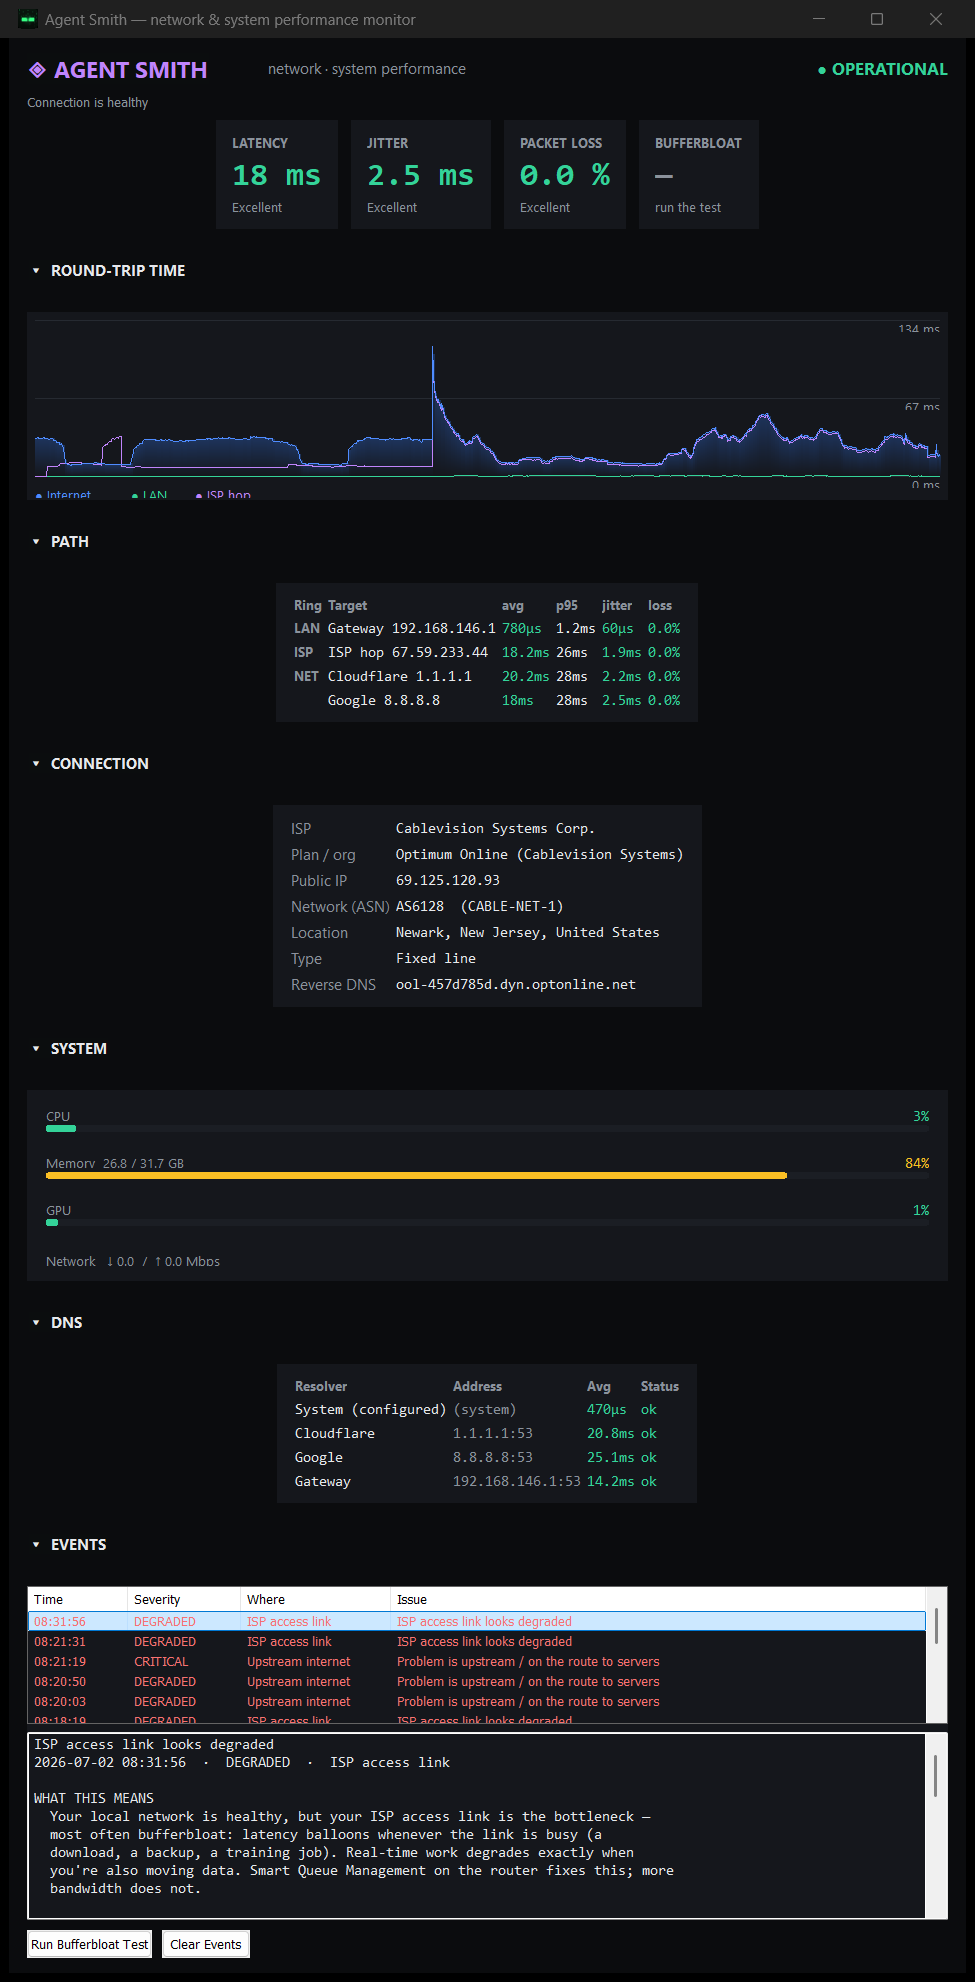
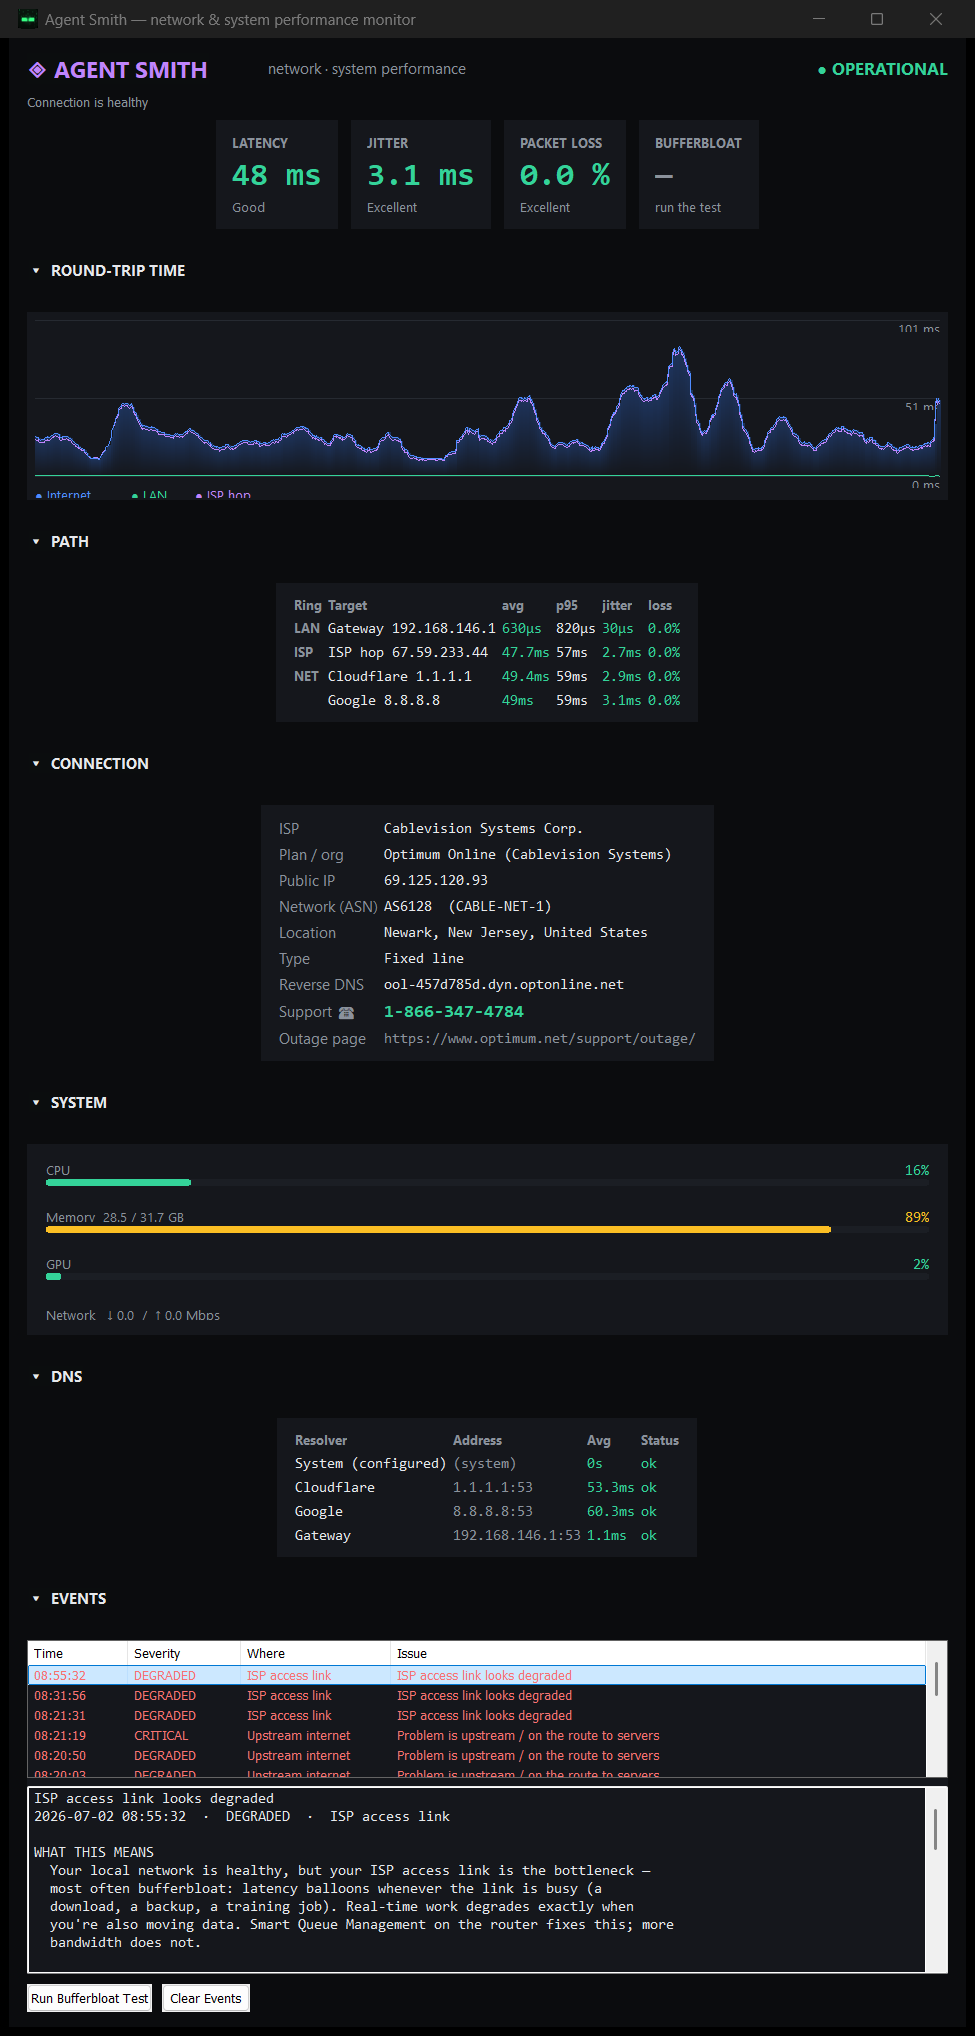
Connection panel: add ISP support/repair phone + outage page
- ispinfo: curated ISP support directory (phone + outage/support URL) keyed by
  ASN with an ISP/org name fallback; covers major US ISPs. Optimum (AS6128)
  verified against optimum.net. The URL is the authoritative fallback if a
  number goes stale.
- GUI Connection panel now shows 'Support ☎ <number>' (prominent, bold green)
  and the outage page — what to call/visit when the connection is down.

Verified: Optimum → 1-866-347-4784 · optimum.net/support/outage.

diff --git a/internal/ispinfo/ispinfo.go b/internal/ispinfo/ispinfo.go
@@ -14,17 +14,19 @@ import (
 
 // Info describes the connection's public identity.
 type Info struct {
-	IP        string    `json:"ip"`
-	ISP       string    `json:"isp"`
-	Org       string    `json:"org"`
-	AS        string    `json:"as"`      // e.g. "AS6128 Cablevision Systems Corp."
-	ASName    string    `json:"as_name"` // e.g. "CABLE-NET-1"
-	City      string    `json:"city"`
-	Region    string    `json:"region"`
-	Country   string    `json:"country"`
-	Reverse   string    `json:"reverse"`
-	ConnType  string    `json:"conn_type"` // Fixed line | Mobile | Hosting/VPN
-	FetchedAt time.Time `json:"fetched_at"`
+	IP         string    `json:"ip"`
+	ISP        string    `json:"isp"`
+	Org        string    `json:"org"`
+	AS         string    `json:"as"`      // e.g. "AS6128 Cablevision Systems Corp."
+	ASName     string    `json:"as_name"` // e.g. "CABLE-NET-1"
+	City       string    `json:"city"`
+	Region     string    `json:"region"`
+	Country    string    `json:"country"`
+	Reverse    string    `json:"reverse"`
+	ConnType   string    `json:"conn_type"` // Fixed line | Mobile | Hosting/VPN
+	Support    string    `json:"support"`   // ISP repair/support phone (best-effort)
+	SupportURL string    `json:"support_url"`
+	FetchedAt  time.Time `json:"fetched_at"`
 }
 
 // ASN returns just the AS number token (e.g. "AS6128") from AS.
@@ -44,6 +46,60 @@ func (i *Info) Location() string {
 		}
 	}
 	return strings.Join(parts, ", ")
+}
+
+// support pairs an ISP repair/support phone with its official support/outage URL.
+type support struct{ phone, url string }
+
+// supportByASN maps an autonomous-system number to its ISP's support contact.
+// Best-effort and US-focused; the URL is the authoritative fallback if a number
+// is ever stale. Optimum (AS6128) is verified; extend as needed.
+var supportByASN = map[string]support{
+	"AS6128":  {"1-866-347-4784", "https://www.optimum.net/support/outage/"},                        // Optimum / Altice
+	"AS7922":  {"1-800-934-6489", "https://www.xfinity.com/support/status"},                         // Comcast Xfinity
+	"AS7018":  {"1-800-288-2020", "https://www.att.com/outages/"},                                   // AT&T
+	"AS701":   {"1-800-837-4966", "https://www.verizon.com/support/residential/"},                   // Verizon
+	"AS22773": {"1-800-234-3993", "https://www.cox.com/residential/support/check-for-outages.html"}, // Cox
+	"AS20115": {"1-833-267-6094", "https://www.spectrum.net/support/internet"},                      // Charter Spectrum
+	"AS209":   {"1-800-244-1111", "https://www.centurylink.com/home/help/"},                         // CenturyLink / Lumen
+	"AS5650":  {"1-800-921-8101", "https://www.frontier.com/helpcenter"},                            // Frontier
+	"AS21928": {"1-844-275-9310", "https://www.t-mobile.com/support/home-internet"},                 // T-Mobile Home Internet
+}
+
+// supportByName is a substring fallback (matched against ISP + org, lowercased).
+var supportByName = []struct {
+	match string
+	s     support
+}{
+	{"optimum", support{"1-866-347-4784", "https://www.optimum.net/support/outage/"}},
+	{"cablevision", support{"1-866-347-4784", "https://www.optimum.net/support/outage/"}},
+	{"altice", support{"1-866-347-4784", "https://www.optimum.net/support/outage/"}},
+	{"comcast", support{"1-800-934-6489", "https://www.xfinity.com/support/status"}},
+	{"xfinity", support{"1-800-934-6489", "https://www.xfinity.com/support/status"}},
+	{"spectrum", support{"1-833-267-6094", "https://www.spectrum.net/support/internet"}},
+	{"charter", support{"1-833-267-6094", "https://www.spectrum.net/support/internet"}},
+	{"at&t", support{"1-800-288-2020", "https://www.att.com/outages/"}},
+	{"verizon", support{"1-800-837-4966", "https://www.verizon.com/support/residential/"}},
+	{"cox", support{"1-800-234-3993", "https://www.cox.com/residential/support/check-for-outages.html"}},
+	{"centurylink", support{"1-800-244-1111", "https://www.centurylink.com/home/help/"}},
+	{"lumen", support{"1-800-244-1111", "https://www.centurylink.com/home/help/"}},
+	{"frontier", support{"1-800-921-8101", "https://www.frontier.com/helpcenter"}},
+	{"t-mobile", support{"1-844-275-9310", "https://www.t-mobile.com/support/home-internet"}},
+	{"google fiber", support{"1-866-777-7550", "https://fiber.google.com/support/"}},
+}
+
+// lookupSupport finds the ISP support contact by ASN, then by ISP/org name.
+func lookupSupport(i *Info) support {
+	if s, ok := supportByASN[i.ASN()]; ok {
+		return s
+	}
+	hay := strings.ToLower(i.ISP + " " + i.Org)
+	for _, e := range supportByName {
+		if strings.Contains(hay, e.match) {
+			return e.s
+		}
+	}
+	return support{}
 }
 
 const endpoint = "http://ip-api.com/json/?fields=status,message,query,isp,org,as,asname,city,regionName,country,reverse,mobile,hosting,proxy"
@@ -88,9 +144,12 @@ func Fetch(ctx context.Context) (*Info, error) {
 	case raw.Hosting || raw.Proxy:
 		ct = "Hosting / VPN"
 	}
-	return &Info{
+	info := &Info{
 		IP: raw.Query, ISP: raw.Isp, Org: raw.Org, AS: raw.As, ASName: raw.Asname,
 		City: raw.City, Region: raw.RegionName, Country: raw.Country, Reverse: raw.Reverse,
 		ConnType: ct, FetchedAt: time.Now(),
-	}, nil
+	}
+	sup := lookupSupport(info)
+	info.Support, info.SupportURL = sup.phone, sup.url
+	return info, nil
 }

diff --git a/internal/ui/gui/gui_windows.go b/internal/ui/gui/gui_windows.go
@@ -129,6 +129,7 @@ type ui struct {
 
 	// connection panel
 	connISP, connOrg, connIP, connASN, connLoc, connType, connRDNS *walk.Label
+	connSupport, connOutage                                        *walk.Label
 	// dns per-resolver rows
 	dnsRows [4]struct{ name, addr, avg, status *walk.Label }
 
@@ -235,6 +236,8 @@ func Run(ctx context.Context, e *engine.Engine) error {
 		kname("Location"), cell(&u.connLoc, cText, mono),
 		kname("Type"), cell(&u.connType, cText, mono),
 		kname("Reverse DNS"), cell(&u.connRDNS, cText, mono),
+		kname("Support ☎"), cell(&u.connSupport, cGreen, decl.Font{Family: "Consolas", PointSize: 11, Bold: true}),
+		kname("Outage page"), cell(&u.connOutage, cSub, mono),
 	}
 
 	// DNS resolver comparison grid.
@@ -706,10 +709,18 @@ func (u *ui) renderConnection(s model.Snapshot) {
 		u.connLoc.SetText(nz(c.Location()))
 		u.connType.SetText(nz(c.ConnType))
 		u.connRDNS.SetText(nz(c.Reverse))
+		if c.Support != "" {
+			u.connSupport.SetText(c.Support)
+			u.connSupport.SetTextColor(cGreen)
+		} else {
+			u.connSupport.SetText("— (see your provider's site / bill)")
+			u.connSupport.SetTextColor(cSub)
+		}
+		u.connOutage.SetText(nz(c.SupportURL))
 	} else {
 		u.connISP.SetText("looking up…")
 		u.connISP.SetTextColor(cSub)
-		for _, l := range []*walk.Label{u.connOrg, u.connIP, u.connASN, u.connLoc, u.connType, u.connRDNS} {
+		for _, l := range []*walk.Label{u.connOrg, u.connIP, u.connASN, u.connLoc, u.connType, u.connRDNS, u.connSupport, u.connOutage} {
 			l.SetText("…")
 		}
 	}

diff --git a/CHANGELOG.md b/CHANGELOG.md
@@ -7,9 +7,11 @@ to [Semantic Versioning](https://semver.org/spec/v2.0.0.html).
 ## [Unreleased]
 
 ### Added
-- **Connection panel** — public IP, ISP, plan/org, network **ASN** (the network's
-  "service number"), geo-location, connection type, and reverse DNS, via a geo-IP
-  lookup at startup (refreshed hourly). New `internal/ispinfo` package.
+- **Connection panel** — public IP, ISP, plan/org, network **ASN**, geo-location,
+  connection type, reverse DNS, and the **ISP support/repair phone number + outage
+  page** (curated directory keyed by ASN/name; shown prominently for when the
+  connection is down), via a geo-IP lookup at startup (refreshed hourly). New
+  `internal/ispinfo` package.
 - **Per-resolver DNS monitoring** — measures resolution latency against each
   resolver *directly* (system/configured, Cloudflare, Google, and the LAN gateway)
   so a slow configured resolver stands out. New DNS comparison section.
